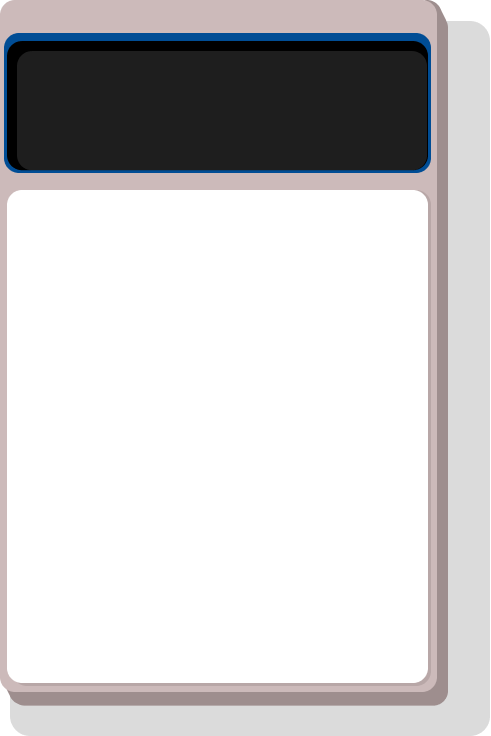
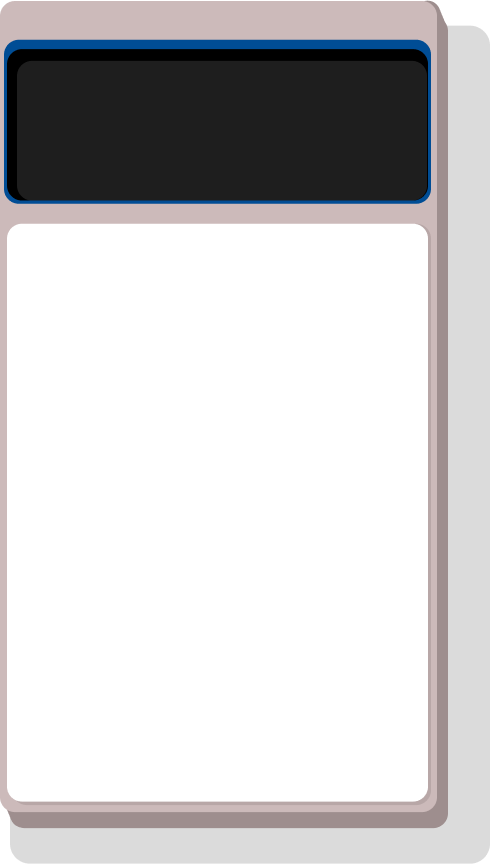
feat: add new buttons 23-button version

diff --git a/calculator/index.html b/calculator/index.html
@@ -22,8 +22,14 @@
             </div>
             <div class="calculator-body-keyboard" id="AllKeys">
                 <div class="calculator-body-keyboard-top">
+                    <div class="calculator-body-keyboard-top-key0">
+                        <div><img src="assets/button.png" alt=""></div>
+                        <div><img src="assets/button.png" alt=""></div>
+                        <div><img src="assets/button.png" alt=""></div>
+                        <div><img src="assets/button.png" alt=""></div>
+                    </div>
                     <div class="calculator-body-keyboard-top-key1">
-                        <div id = "ac" class="functional"><img src="assets/ac.png" alt=""></div>
+                        <div id="ac" class="functional"><img src="assets/ac.png" alt=""></div>
                         <div id="backspace" class="functional"><img src="assets/bac.png" alt=""></div>
                         <div class="functional"><img src="assets/percent.png" alt=""></div>
                         <div id="sublime" class="functional"><img src="assets/dev.png" alt=""></div>
@@ -50,7 +56,7 @@
                     </div>
                     <div class="calculator-body-keyboard-top-key5">
                         <div id="dig0" value="0" class="digital"><img src="assets/0.png" alt=""></div>
-                        <div id="point"class="functional"><img src="assets/point.png" alt=""></div>
+                        <div id="point" class="functional"><img src="assets/point.png" alt=""></div>
                         <div id="rez" class="functional"><img src="assets/rez.png" alt=""></div>
                     </div>
                 </div>

diff --git a/calculator/style.scss b/calculator/style.scss
@@ -6,7 +6,7 @@ body {
     margin: 50px auto;
     background-image: url(assets/body.png);
     width: 491px;
-    height: 736px;
+    height: 864px;
 
 
     &-body {
@@ -35,6 +35,7 @@ body {
         }
 
         &-keyboard {
+            margin-top: 32px;
             &-top {
                 margin-left: 12px;
                 width: 405px;
@@ -42,6 +43,13 @@ body {
 
                 // display: flex;
                 // align-content: space-around;
+                &-key0 {
+                    display: flex;
+                    justify-content: space-between;
+                    margin-top: 5px;
+
+                }
+
                 &-key1 {
                     display: flex;
                     justify-content: space-between;

diff --git a/calculator/style.css b/calculator/style.css
@@ -6,7 +6,7 @@ body {
   margin: 50px auto;
   background-image: url(assets/body.png);
   width: 491px;
-  height: 736px;
+  height: 864px;
 }
 
 .calculator-body-display {
@@ -26,10 +26,24 @@ body {
   padding-top: 90px;
 }
 
+.calculator-body-keyboard {
+  margin-top: 32px;
+}
+
 .calculator-body-keyboard-top {
   margin-left: 12px;
   width: 405px;
   height: 472px;
+}
+
+.calculator-body-keyboard-top-key0 {
+  display: -webkit-box;
+  display: -ms-flexbox;
+  display: flex;
+  -webkit-box-pack: justify;
+      -ms-flex-pack: justify;
+          justify-content: space-between;
+  margin-top: 5px;
 }
 
 .calculator-body-keyboard-top-key1 {
